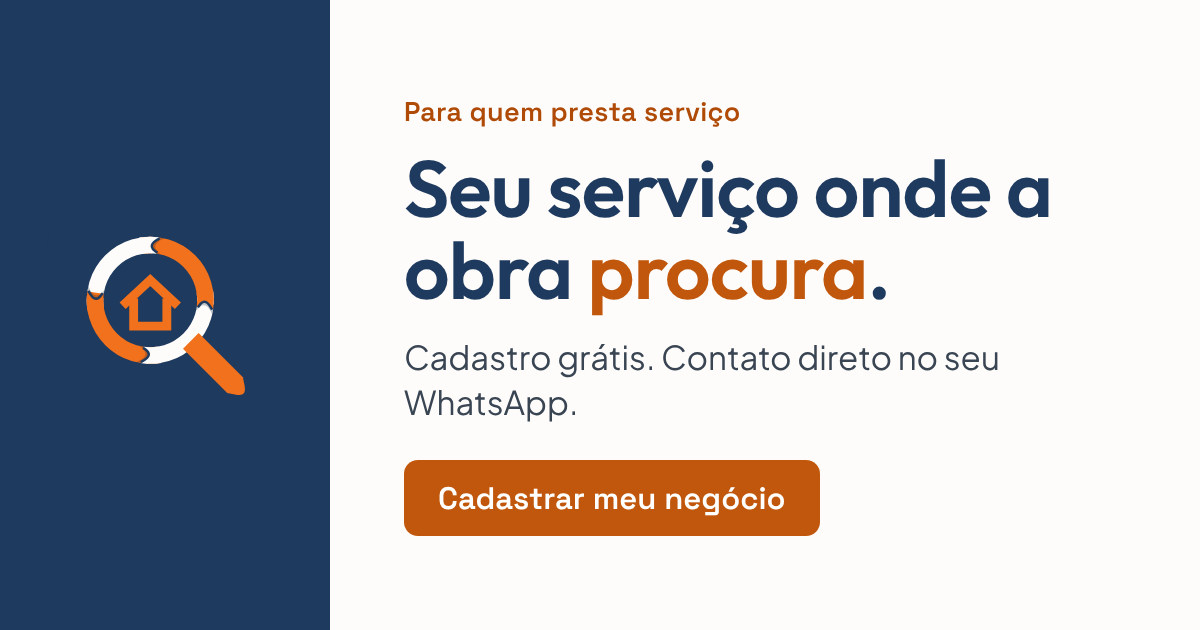
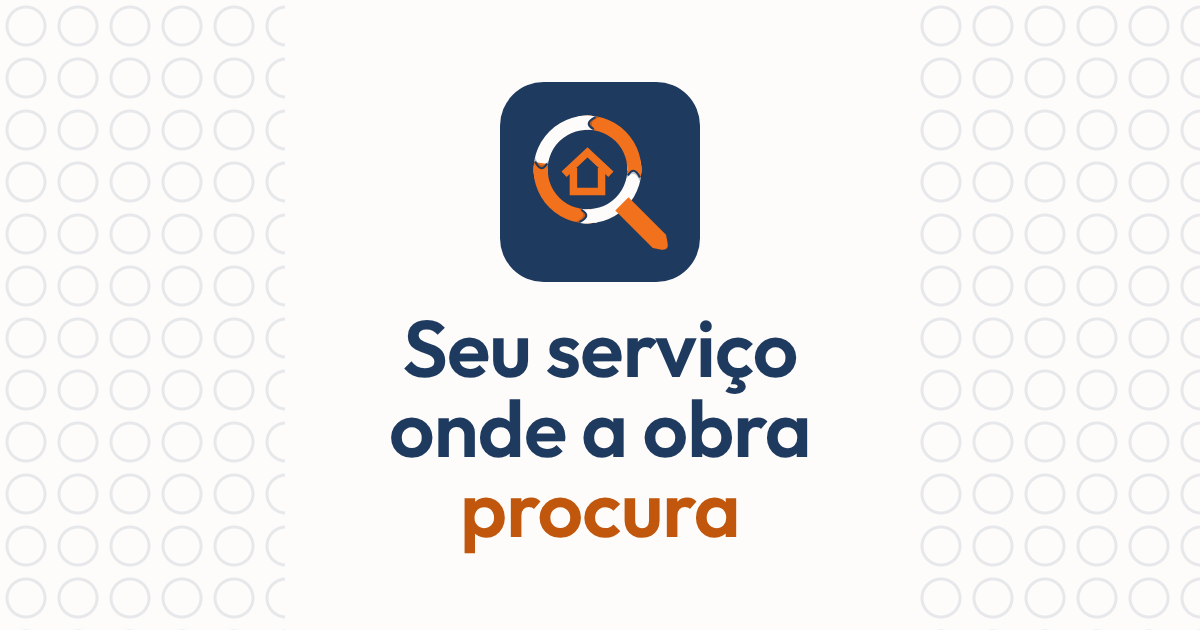
Convites legíveis na miniatura do WhatsApp: símbolo e frase no quadrado do meio (#13)
O WhatsApp do computador (e as prévias pequenas) corta o quadrado central da
imagem; o desenho antigo ficava pela metade. Agora o essencial cabe nos 630 px
do meio e as laterais são só textura. Imagens com ?v=2.

Claude-Session: https://claude.ai/code/session_014XVceJrTQgXpLhp1bzYTF4

diff --git a/index.html b/index.html
@@ -14,7 +14,7 @@
 <meta property="og:type" content="website">
 <meta property="og:title" content="Construir & Reformar — quem faz sua obra acontecer">
 <meta property="og:description" content="Escreva do seu jeito o que precisa e encontre o profissional certo da construção em Mato Grosso.">
-<meta property="og:image" content="https://anafernandahanauer-stack.github.io/construir-reformar/icons/convite.png?v=1">
+<meta property="og:image" content="https://anafernandahanauer-stack.github.io/construir-reformar/icons/convite.png?v=2">
 <meta property="og:url" content="https://anafernandahanauer-stack.github.io/construir-reformar/">
 <link rel="canonical" href="https://anafernandahanauer-stack.github.io/construir-reformar/">
 <meta property="og:locale" content="pt_BR">

diff --git a/cadastre-se/index.html b/cadastre-se/index.html
@@ -11,7 +11,7 @@
 <meta property="og:site_name" content="Construir &amp; Reformar">
 <meta property="og:title" content="Construir & Reformar — seu serviço onde a obra procura">
 <meta property="og:description" content="Cadastre seu negócio no diretório de obra de Mato Grosso. Grátis, com contato direto no seu WhatsApp.">
-<meta property="og:image" content="https://anafernandahanauer-stack.github.io/construir-reformar/icons/convite-prestador.png?v=1">
+<meta property="og:image" content="https://anafernandahanauer-stack.github.io/construir-reformar/icons/convite-prestador.png?v=2">
 <meta property="og:image:type" content="image/png">
 <meta property="og:image:width" content="1200">
 <meta property="og:image:height" content="630">

diff --git a/convite/index.html b/convite/index.html
@@ -11,7 +11,7 @@
 <meta property="og:site_name" content="Construir &amp; Reformar">
 <meta property="og:title" content="Construir & Reformar — quem faz sua obra acontecer">
 <meta property="og:description" content="Escreva do seu jeito o que precisa e veja quem resolve em Mato Grosso, com a nota de quem já contratou. Grátis.">
-<meta property="og:image" content="https://anafernandahanauer-stack.github.io/construir-reformar/icons/convite.png?v=1">
+<meta property="og:image" content="https://anafernandahanauer-stack.github.io/construir-reformar/icons/convite.png?v=2">
 <meta property="og:image:type" content="image/png">
 <meta property="og:image:width" content="1200">
 <meta property="og:image:height" content="630">
